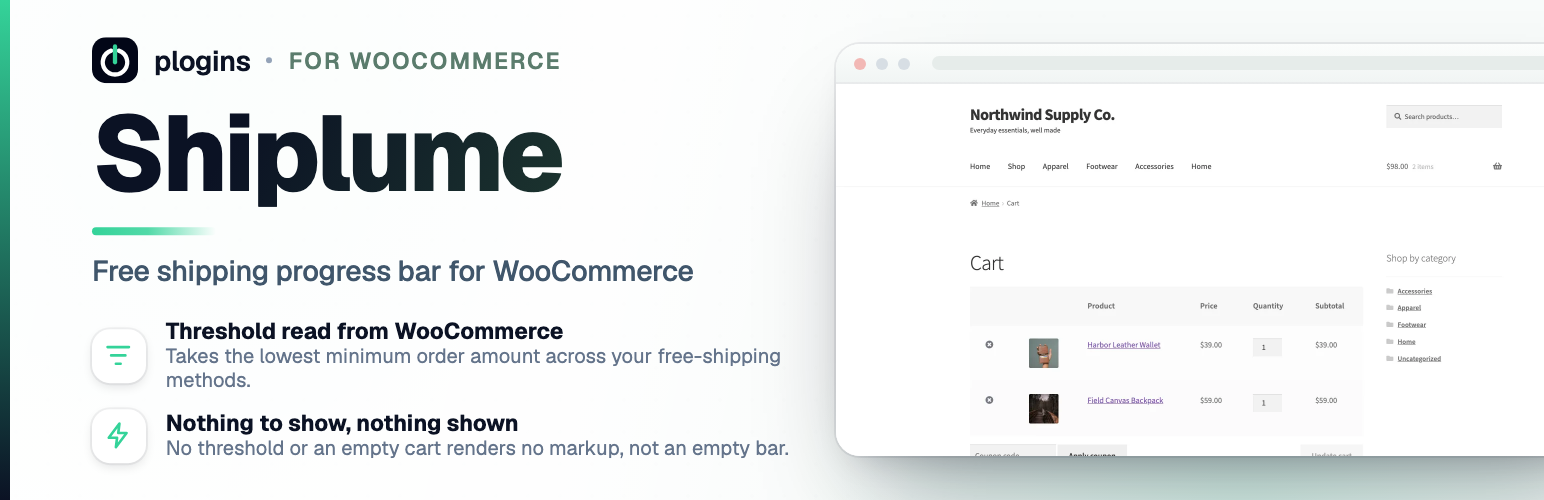
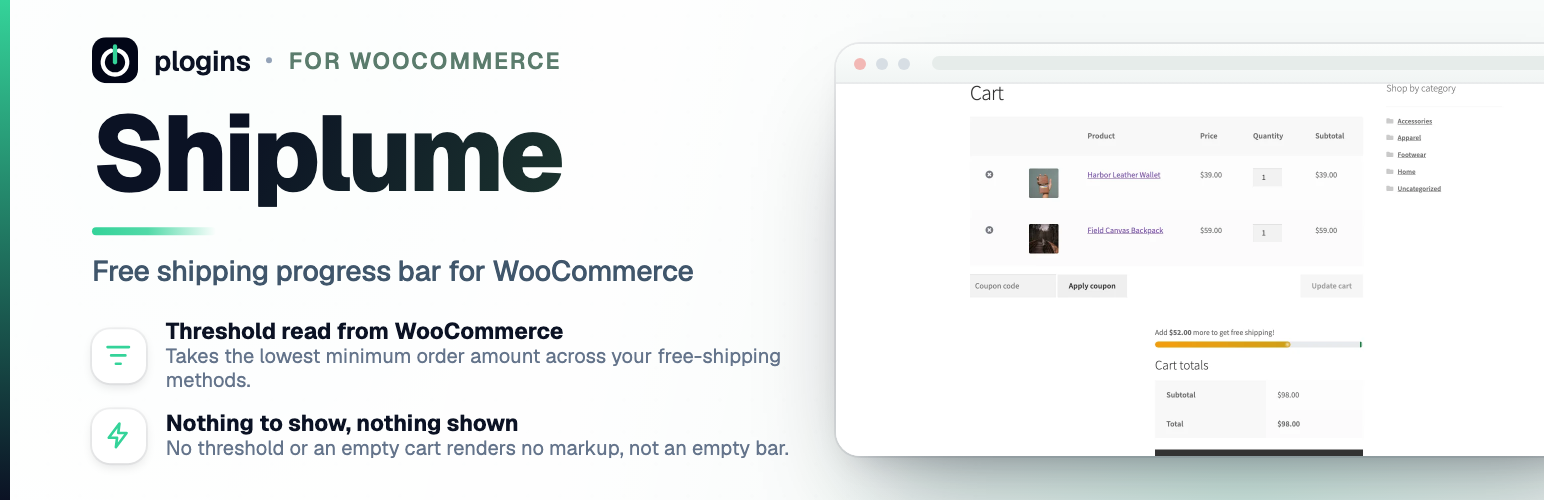
1.1.6: one progress bar per page on the classic cart and checkout
The bar was also hooked inside the totals table on both pages, so shoppers saw it twice. Inside the checkout tfoot the browser hoisted the div out of the table, so every checkout refresh added another copy. The checkout bar now refreshes as an order review fragment instead.

The template received the context array under the name $context, so the placement class and data attribute printed Array.

New screenshots from the fixed build (cart, settings, checkout) and a banner cropped to show the bar.

diff --git a/src/Service/ProgressBarService.php b/src/Service/ProgressBarService.php
@@ -50,19 +50,23 @@ final class ProgressBarService implements HasHooks
 
         add_action('wp_enqueue_scripts', [$this, 'registerAssets']);
 
+        // One bar per page. There used to be a second, "inline" bar hooked
+        // inside the totals table on both pages, so every shopper saw the bar
+        // twice. Inside a <tfoot> the browser also hoists the <div> out of the
+        // table, so each checkout refresh left one more copy behind.
+        //
+        // Classic template hooks only: the Cart and Checkout blocks fire none of
+        // them, and the settings screen warns when a page uses the block.
         if (! empty($settings['show_on_cart'])) {
-            // Both of these live in the classic cart templates: above the totals
-            // and inside them. The Cart block fires neither, so on a block cart
-            // the merchant ticked the box and the shopper saw nothing at all.
-            // The settings screen now warns when the page uses the block.
+            // Inside div.cart_totals, which WooCommerce re-renders on update.
             add_action('woocommerce_before_cart_totals', [$this, 'renderCartBar']);
-            add_action('woocommerce_cart_totals_after_order_total', [$this, 'renderInlineBar']);
         }
 
         if (! empty($settings['show_on_checkout'])) {
-            // Same story on checkout: classic template hooks only.
             add_action('woocommerce_before_checkout_form', [$this, 'renderCheckoutBar'], 5);
-            add_action('woocommerce_review_order_after_order_total', [$this, 'renderInlineBar']);
+            // The checkout form is not re-rendered on update, so send the bar
+            // as a fragment to keep it current when a coupon changes the total.
+            add_filter('woocommerce_update_order_review_fragments', [$this, 'checkoutFragment']);
         }
     }
 
@@ -124,11 +128,14 @@ final class ProgressBarService implements HasHooks
     }
 
     /**
-     * Render wrapper for inline (inside-totals) placements.
+     * @param array<string, string> $fragments
+     * @return array<string, string>
      */
-    public function renderInlineBar(): void
+    public function checkoutFragment(array $fragments): array
     {
-        echo wp_kses_post($this->buildBar('inline'));
+        $fragments['div.nudge--checkout'] = wp_kses_post($this->buildBar('checkout'));
+
+        return $fragments;
     }
 
     /**
@@ -194,9 +201,9 @@ final class ProgressBarService implements HasHooks
     }
 
     /**
-     * @param array<string, mixed> $context
+     * @param array<string, mixed> $vars
      */
-    private function renderTemplate(string $template, array $context): void
+    private function renderTemplate(string $template, array $vars): void
     {
         $file = NUDGE_DIR . 'templates/' . $template . '.php';
 
@@ -204,7 +211,9 @@ final class ProgressBarService implements HasHooks
             return;
         }
 
-        extract($context, EXTR_SKIP);
+        // Not named $context: EXTR_SKIP kept the array under that name, so the
+        // template printed "nudge--Array" and data-nudge-placement="Array".
+        extract($vars, EXTR_SKIP);
         require $file;
     }
 

diff --git a/shiplume.php b/shiplume.php
@@ -3,7 +3,7 @@
  * Plugin Name:       Shiplume - Shipping Progress Bar for WooCommerce
  * Plugin URI:        https://plogins.com/plogins-nudge/
  * Description:        Show a free-shipping progress bar that nudges shoppers to add more to their cart.
- * Version:           1.1.5
+ * Version:           1.1.6
  * Requires at least: 6.5
  * Requires PHP:      8.1
  * Requires Plugins:  woocommerce
@@ -25,7 +25,7 @@ namespace Nudge;
 
 defined('ABSPATH') || exit;
 
-const VERSION     = '1.1.5';
+const VERSION     = '1.1.6';
 const PLUGIN_FILE = __FILE__;
 
 define('NUDGE_DIR', plugin_dir_path(__FILE__));

diff --git a/templates/progress-bar.php b/templates/progress-bar.php
@@ -15,7 +15,7 @@
  *
  * @package Nudge
  *
- * @var string $context  Render context: cart|checkout|inline.
+ * @var string $context  Render context: cart|checkout.
  * @var int    $percent  Progress towards the goal, 0-100.
  * @var bool   $reached  Whether the free-shipping goal is met.
  * @var string $message  Pre-built message HTML (may contain wc_price markup).
